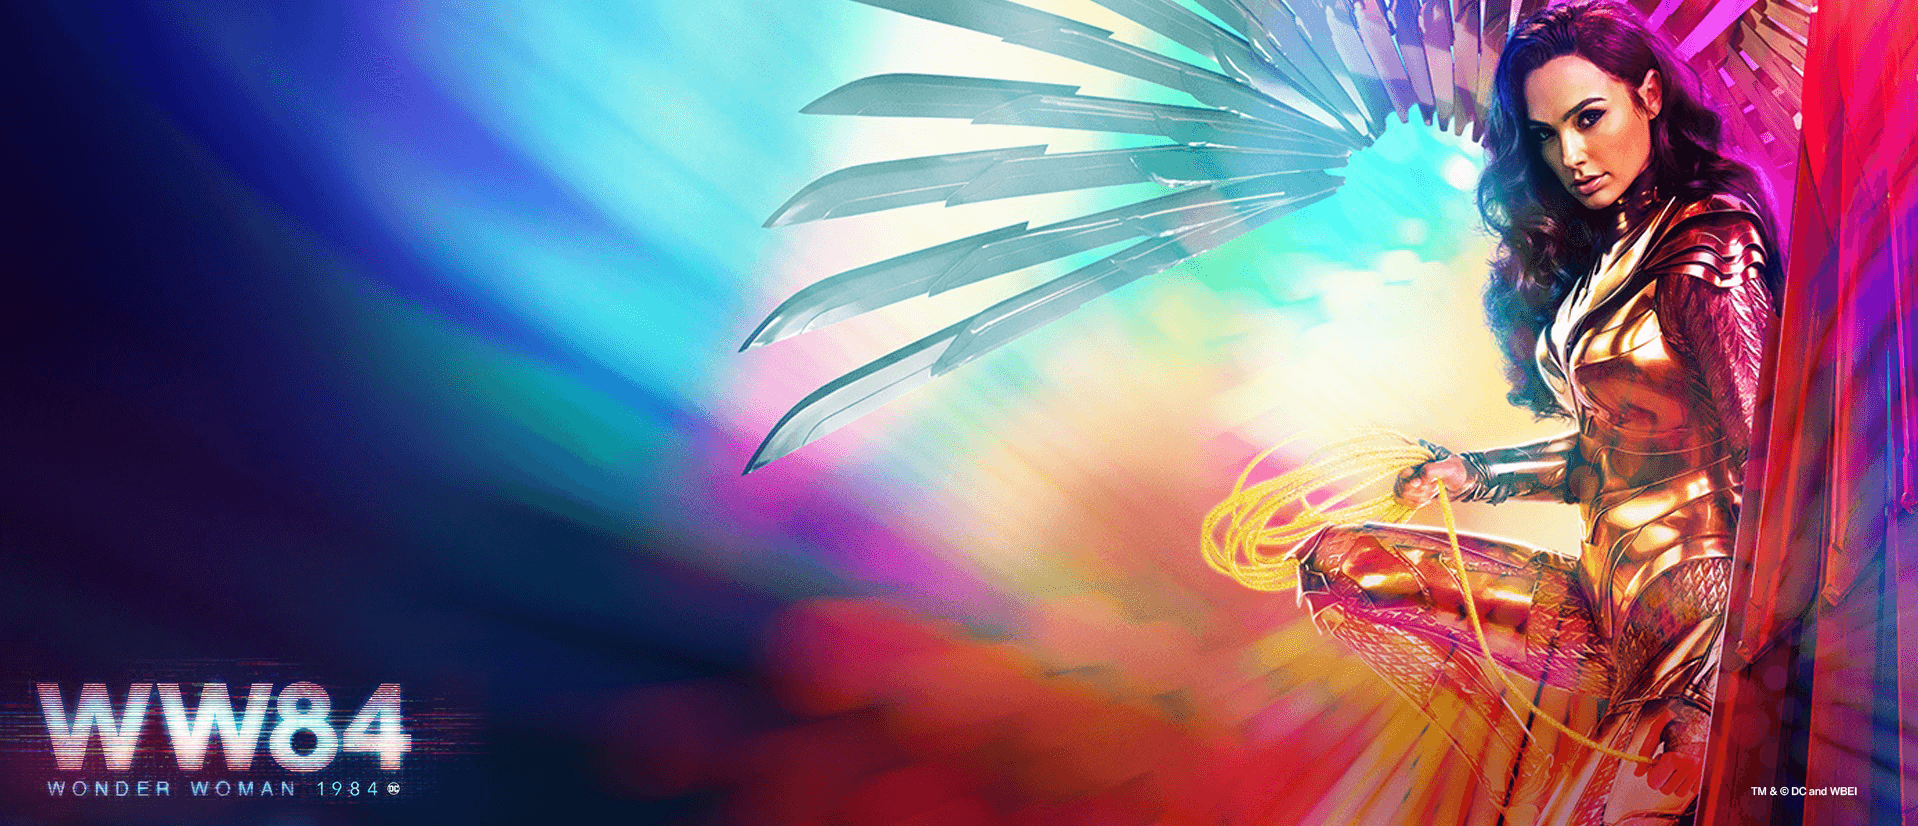
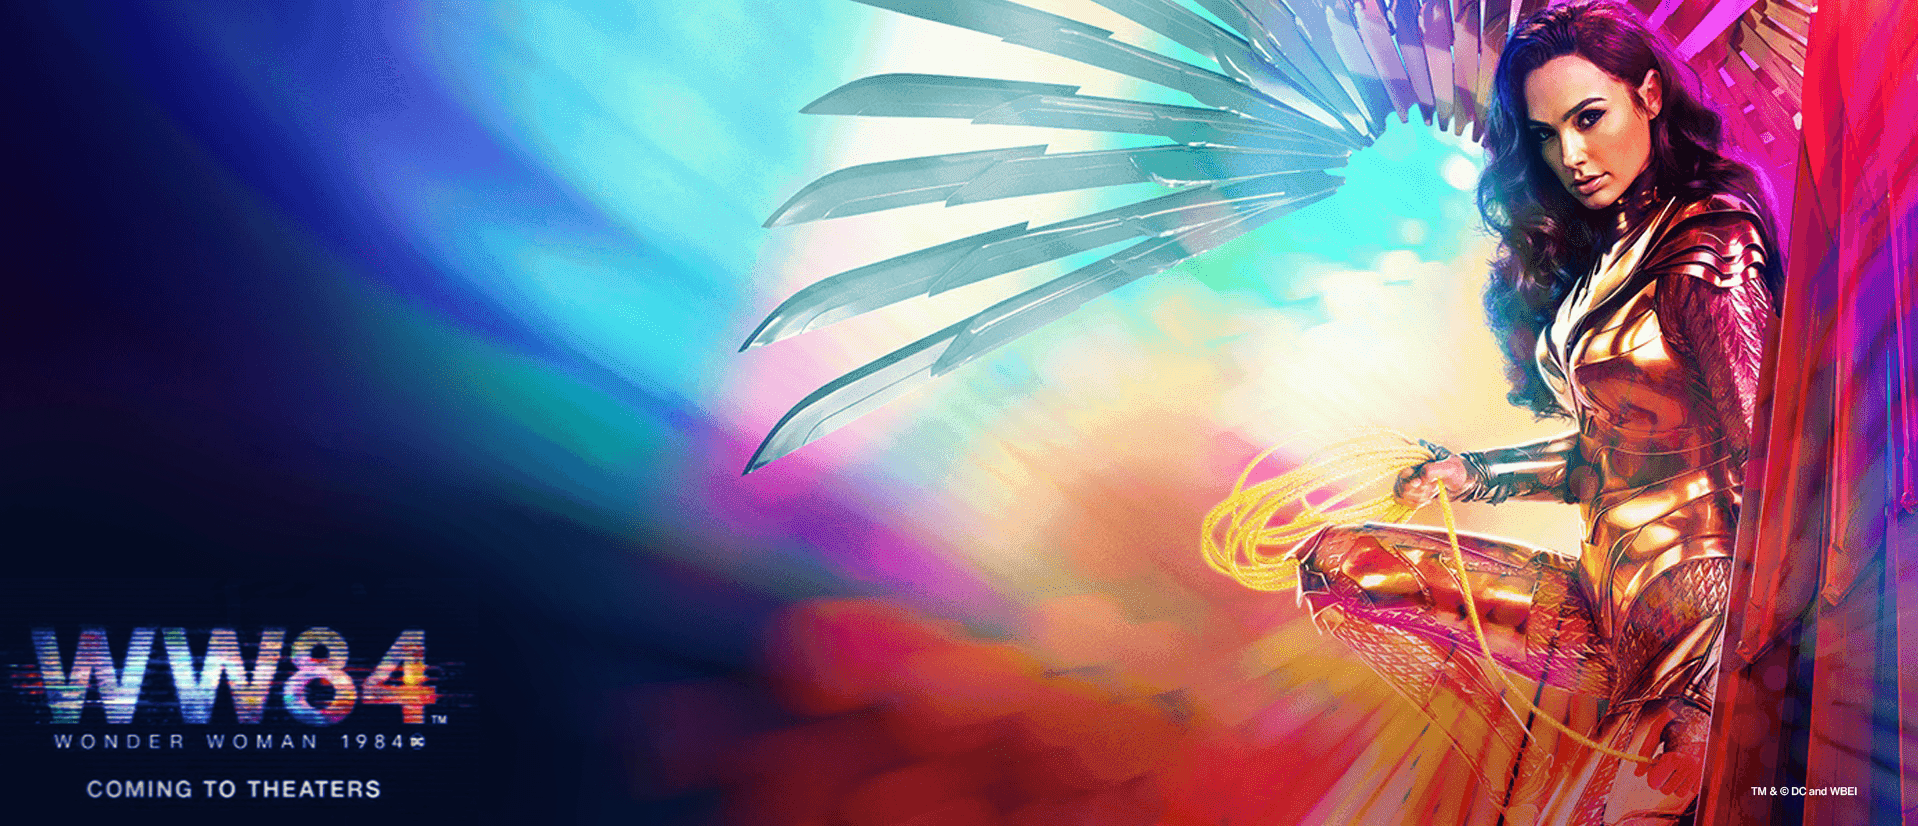
fix wording on ww84 page (#2324)
* fix wording on ww84 page

* Maze tutorial title change 'Chaos Maze'

* Say the maze is 'inspired by ww84'

* Update ww84-header.png

* compress img 1.8mb->474kb

diff --git a/docs/ww84.html b/docs/ww84.html
@@ -227,13 +227,14 @@
         <h1>Microsoft MakeCode Arcade</h1>
         <p role="presentation" class="subheading">Chaos Maze inspired by WONDER WOMAN 1984</p>
         <p class='tagline'>
-            Wonder Woman is in the Smithsonian museum and needs your help!
+            Wonder Woman is in a museum and needs your help!
         </p>
 
         <ol class="ui ordered list">
             <li class="bottom aligned content">
                 <p>First, play the Chaos Maze game below to help her navigate
-                    through the Smithsonian Museum. She needs to collect all 13 artifacts, retrieve her lasso to defeat
+                    through the halls of a museum, like those found at the Smithsonian.
+                    She needs to collect all 13 artifacts, retrieve her lasso to defeat
                     Barbara Minerva, and retrieve her armor to destroy the Shard of Chaos!</p>
             </li>
 

diff --git a/docs/recipes/wonder-woman-1984/maze.md b/docs/recipes/wonder-woman-1984/maze.md
@@ -1,4 +1,4 @@
-# Wonder Woman Maze
+# Chaos Maze
 
 ## Introduction @unplugged
 
@@ -355,6 +355,6 @@ info.startCountdown(20)
 
 ## Finish current tutorial or add artifacts @fullscreen
 
-Congratulations on completing your Wonder Woman Chaos Maze! Click on [**this link**](#recipe:/recipes/wonder-woman-1984/artifact) to move to the next tutorial where you can add items for Wonder Woman to collect! Otherwise, click the **Finish** button.
+Congratulations on completing your Chaos Maze inspired by WONDER WOMAN 1984! Click on [**this link**](#recipe:/recipes/wonder-woman-1984/artifact) to move to the next tutorial where you can add items for Wonder Woman to collect! Otherwise, click the **Finish** button.
 
 ![Add Artifacts](/static/recipes/wonder-woman-1984/artifact-preview.png)
